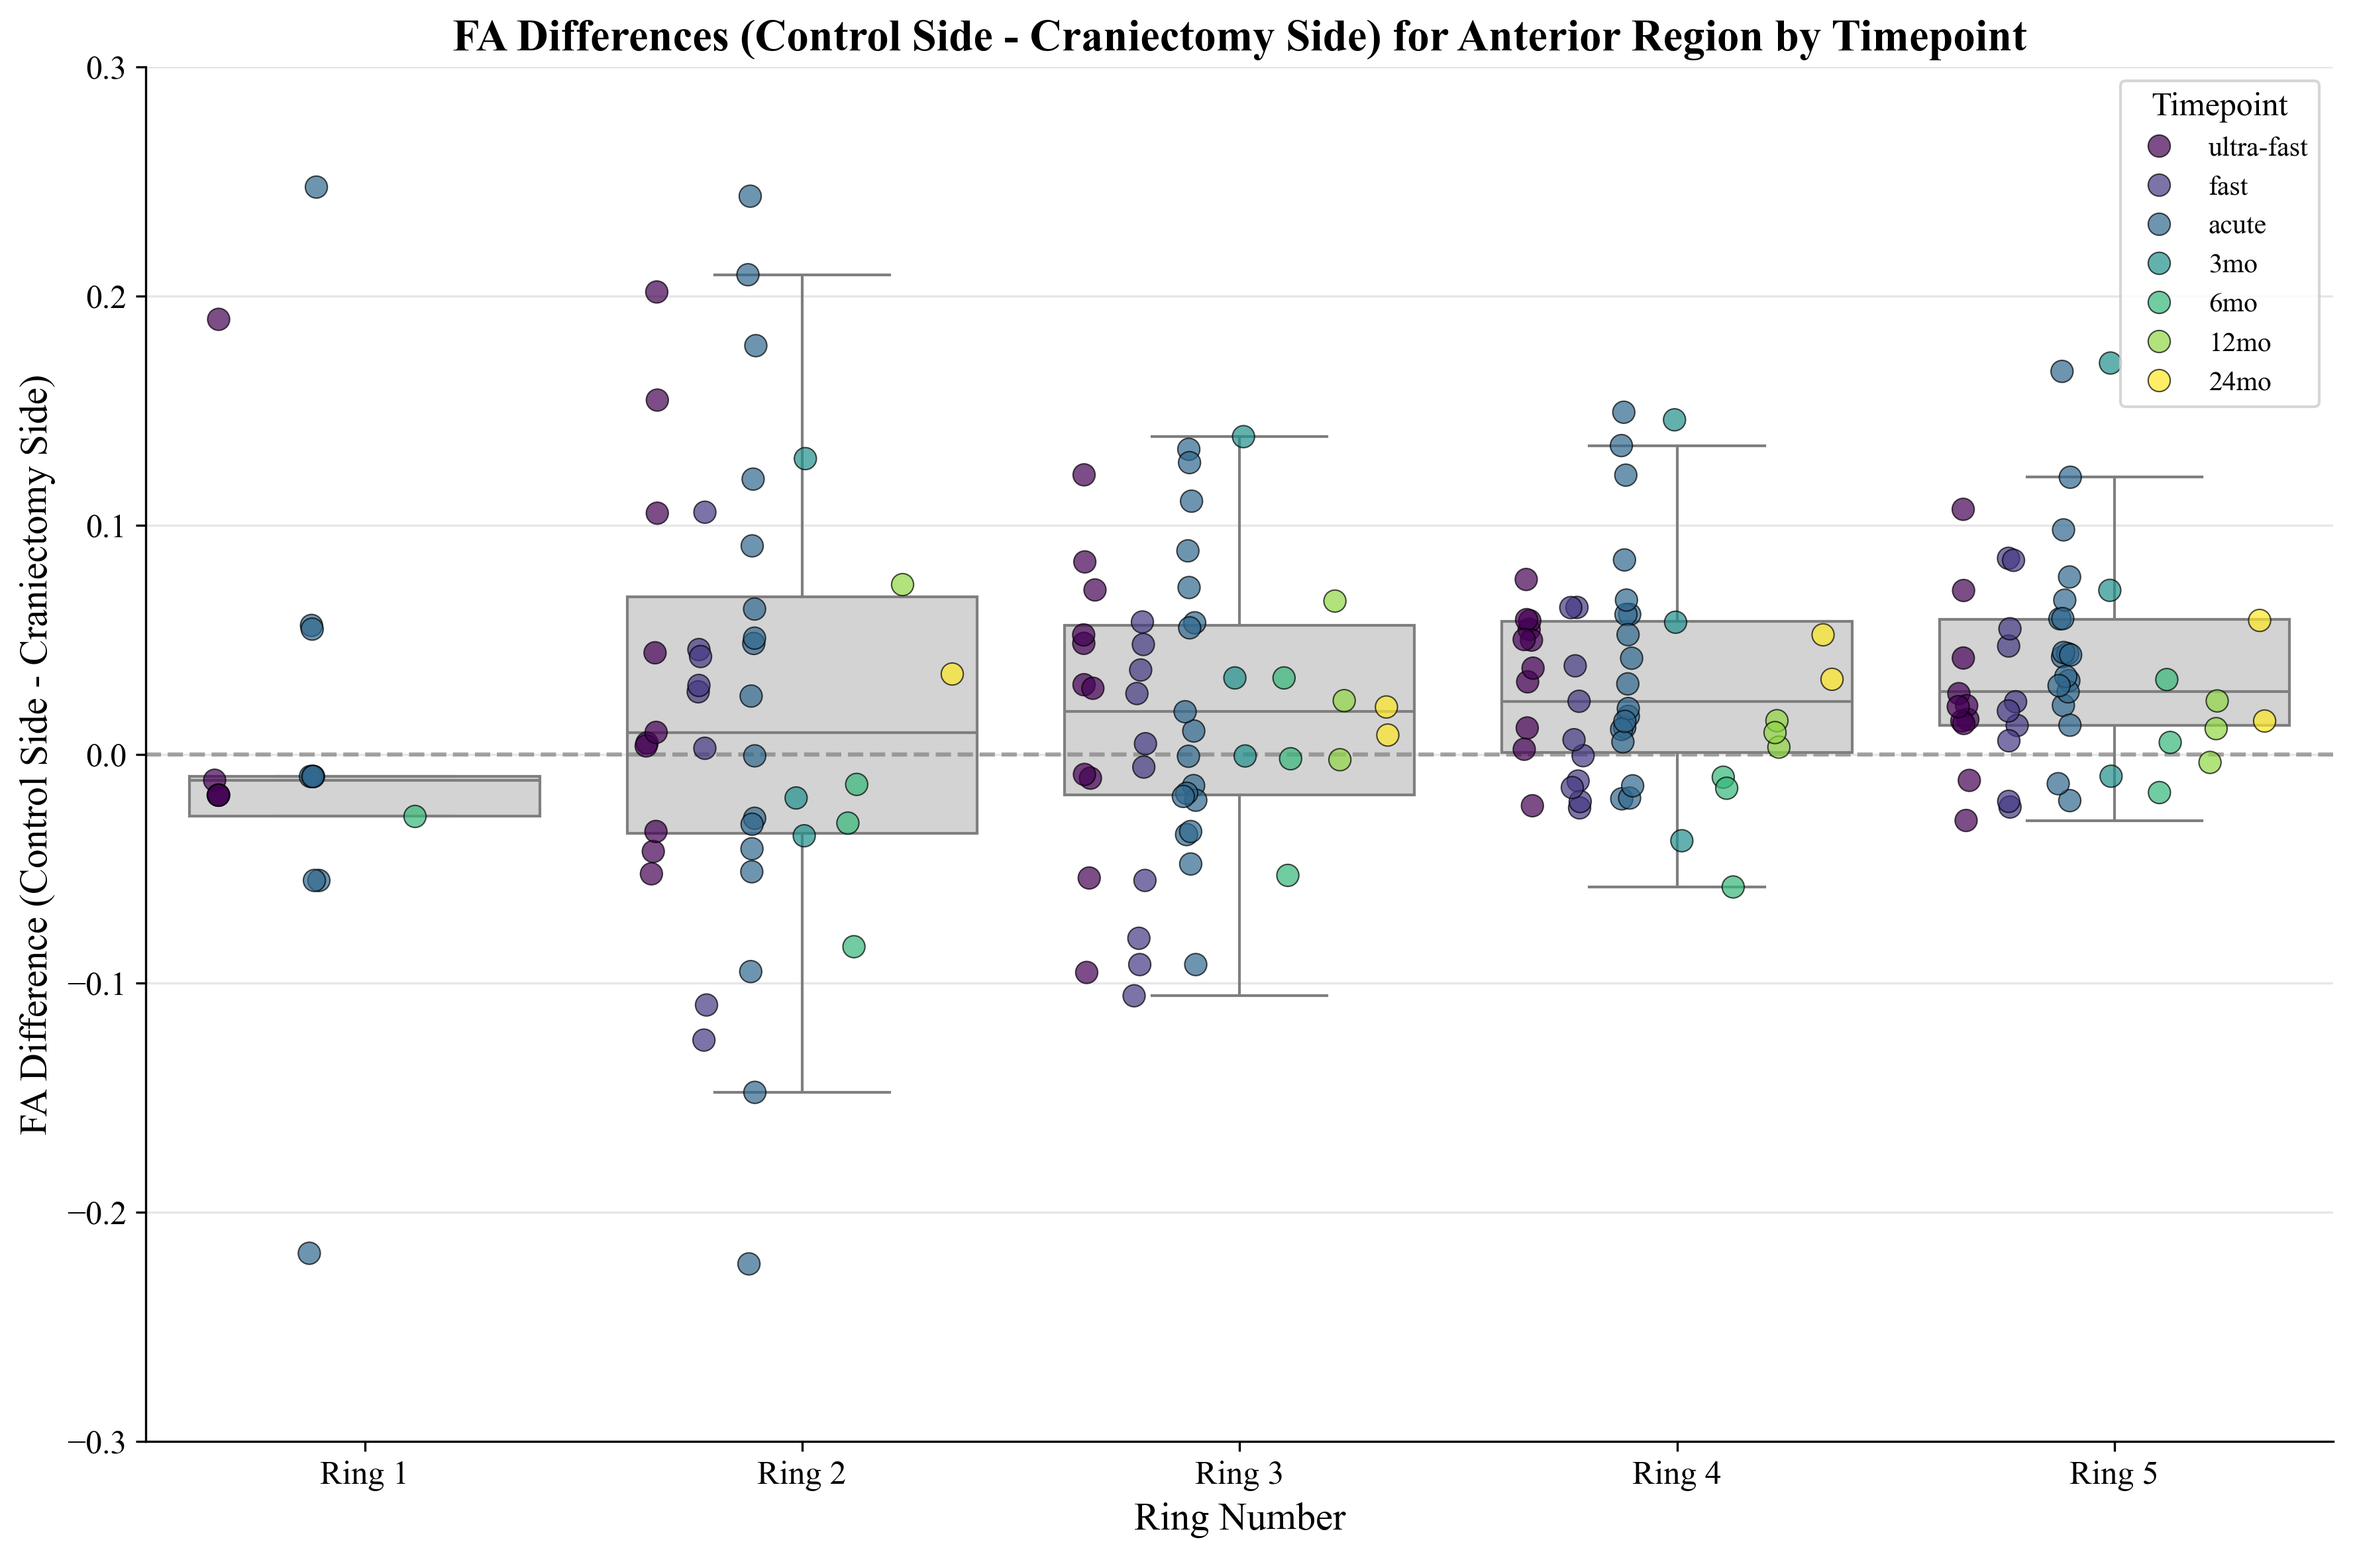
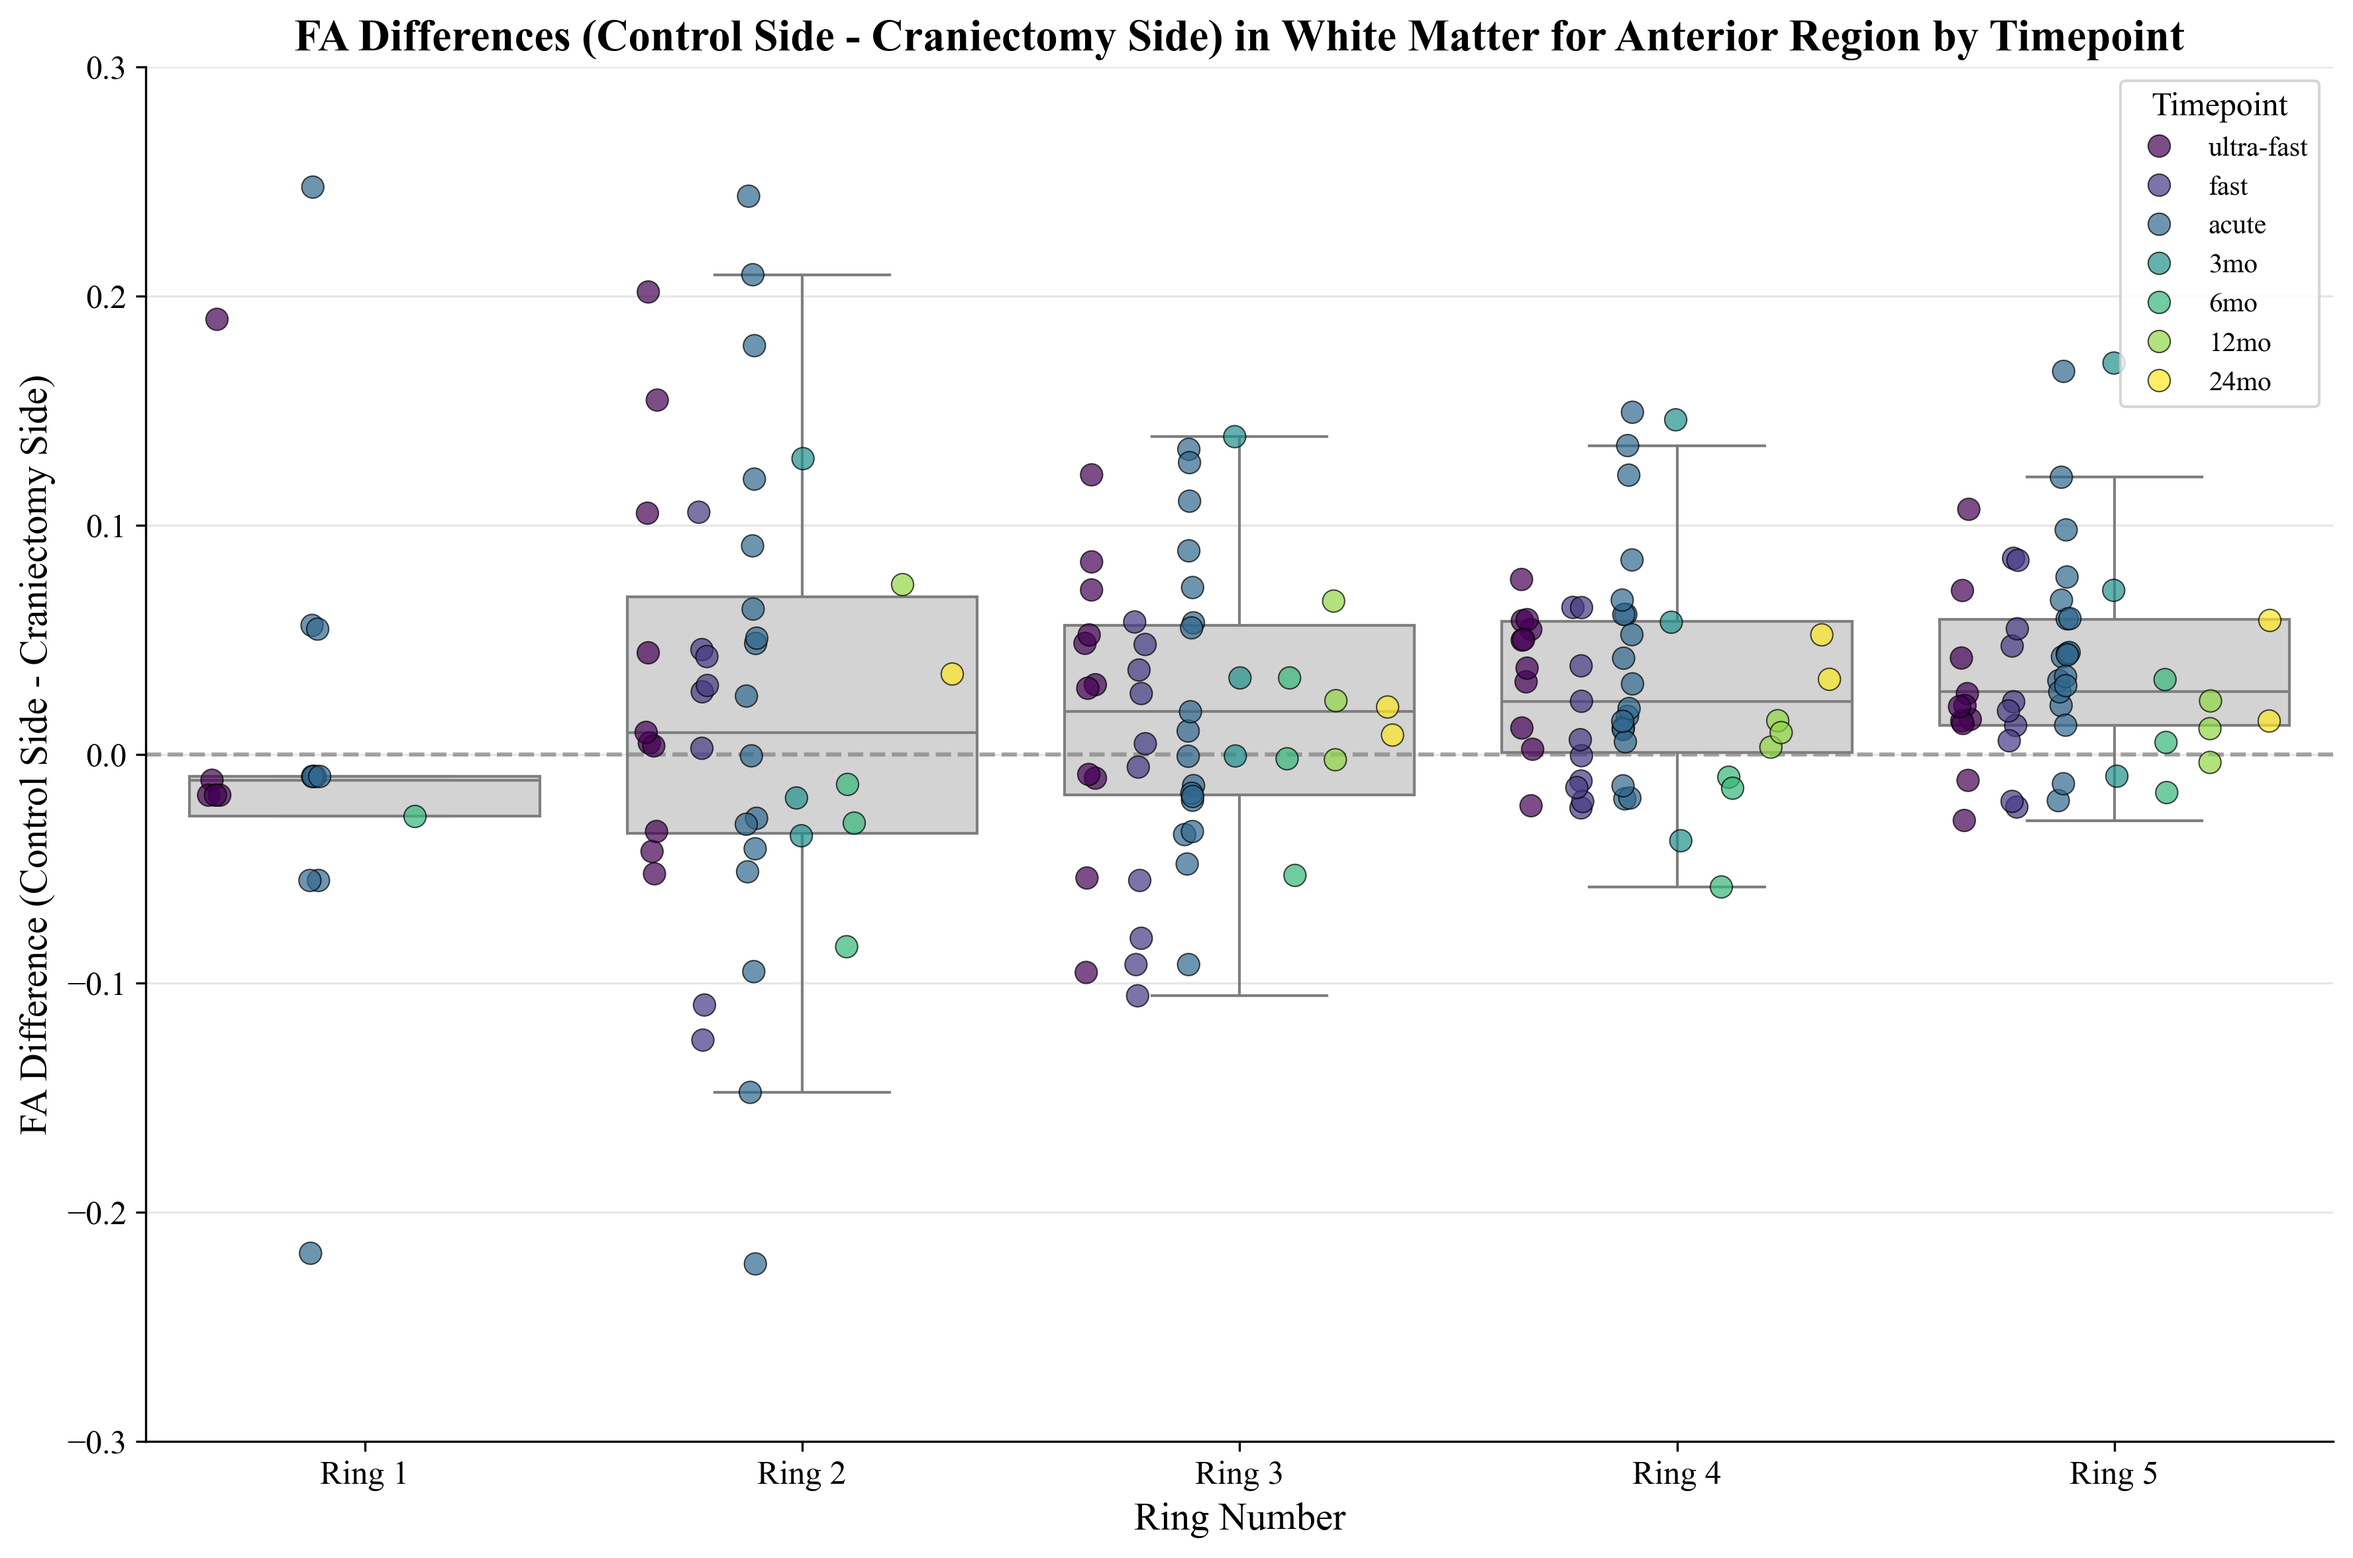
white matter plots

diff --git a/DTI_Processing_Scripts/dti_results_plotting_main.py b/DTI_Processing_Scripts/dti_results_plotting_main.py
@@ -378,6 +378,10 @@ def plot_metric_difference(df, parameter, region, save_path=None, plot_type='box
         
     ax.set_title(f'{parameter.upper()} Differences (Control Side - Craniectomy Side) for {region_title} {group_title}')
     
+    if 'wm' in save_path:
+        ax.set_title(f'{parameter.upper()} Differences (Control Side - Craniectomy Side) in White Matter for {region_title} {group_title}')
+
+
     # Adjust layout
     plt.tight_layout()
     
@@ -1185,6 +1189,15 @@ if __name__ == '__main__':
     plot_metric_difference(df=wm_data_5x4vox, parameter='fa', region='anterior', save_path='DTI_Processing_Scripts/test_results/roi_fa_wm_5x4vox_anterior_comparison_box.png', plot_type='strip')
     plot_metric_difference(df=wm_data_5x4vox, parameter='fa', region='both', save_path='DTI_Processing_Scripts/test_results/roi_fa_wm_5x4vox_both_regions_comparison_box.png', plot_type='strip', group_by='timepoint')
     # plot_metric_difference
+
+    wm_data_10x4vox_filename='DTI_Processing_Scripts/merged_data_10x4vox_NEW_filtered_wm_harmonised.csv'
+    wm_data_10x4vox=process_timepoint_data(input_file_location=wm_data_10x4vox_filename)
+    # plot_metric_difference(df=wm_data_5x4vox, parameter='fa', region='anterior', save_path='DTI_Processing_Scripts/test_results/roi_fa_wm_5x4vox_anterior_comparison_box.png', plot_type='strip')
+    plot_metric_difference(df=wm_data_10x4vox, parameter='fa', region='both', save_path='DTI_Processing_Scripts/test_results/roi_fa_wm_10x4vox_both_regions_comparison_box.png', plot_type='strip', group_by='timepoint')
+    plot_metric_difference(df=wm_data_10x4vox, parameter='md', region='both', save_path='DTI_Processing_Scripts/test_results/roi_md_wm_10x4vox_both_regions_comparison_box.png', plot_type='strip', group_by='timepoint')
+    plot_metric_difference(df=wm_data_10x4vox, parameter='fa', region='both', save_path='DTI_Processing_Scripts/test_results/roi_fa_wm_10x4vox_both_regions_comparison_boxplot.png', plot_type='box', group_by='timepoint')
+    plot_metric_difference(df=wm_data_10x4vox, parameter='md', region='both', save_path='DTI_Processing_Scripts/test_results/roi_md_wm_10x4vox_both_regions_comparison_boxplot.png', plot_type='box', group_by='timepoint')
+
 
     sys.exit()
 
